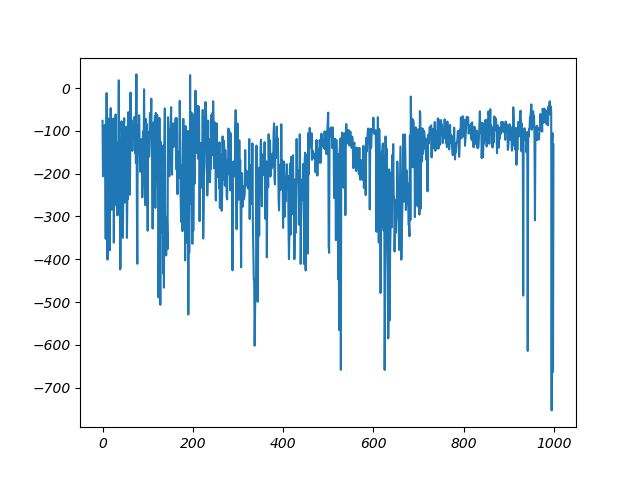
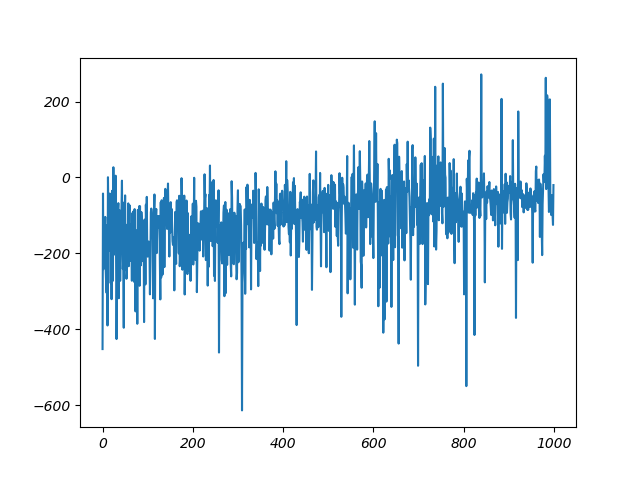
fixed heavyhandedness of optimize function

diff --git a/agents/dqn_agent.py b/agents/dqn_agent.py
@@ -13,7 +13,7 @@ class DQNAgent():
     # Hyperparameters (adjustable)
     learning_rate_a = 0.01  # learning rate (alpha)
     discount_factor_g = 0.95  # discount rate (gamma)
-    network_sync_rate = 5  # number of steps the agent takes before soft updating the target network
+    network_sync_rate = 10  # number of steps the agent takes before soft updating the target network
     mini_batch_size = 64  # size of the training data set sampled from the replay memory
     tau = 0.001 # soft update amount
 
@@ -85,15 +85,15 @@ class DQNAgent():
                 step_count += 1
 
                 # Check if enough experience has been collected
-                if len(memory) > self.mini_batch_size:
+                if len(memory) > self.mini_batch_size and step_count > self.network_sync_rate:
                     mini_batch = memory.sample(self.mini_batch_size)
                     self.optimize(mini_batch, policy_dqn, target_dqn)
 
                     # soft update policy network to target network after a certain number of steps
-                    if step_count > self.network_sync_rate:
-                        for target_param, local_param in zip(target_dqn.parameters(), policy_dqn.parameters()):
-                            target_param.data.copy_(self.tau * local_param.data + (1.0 - self.tau) * target_param.data)
-                        step_count = 0
+                    for target_param, local_param in zip(target_dqn.parameters(), policy_dqn.parameters()):
+                        target_param.data.copy_(self.tau * local_param.data + (1.0 - self.tau) * target_param.data)
+
+                    step_count = 0
 
             # Keep track of the rewards collected per episode.
             # An episode is considered a solution if it scores at least 200 points.
@@ -146,35 +146,24 @@ class DQNAgent():
 
     def optimize(self, mini_batch, policy_dqn, target_dqn):
         # update the policy network
-        current_q_list = []
-        target_q_list = []
+        states = torch.tensor(np.array([s for s, _, _, _, _ in mini_batch]), dtype=torch.float32)
+        actions = torch.tensor(np.array([a for _, a, _, _, _ in mini_batch]), dtype=torch.int64)
+        rewards = torch.tensor(np.array([r for _, _, _, r, _ in mini_batch]), dtype=torch.float32)
+        next_states = torch.tensor(np.array([ns for _, _, ns, _, _ in mini_batch]), dtype=torch.float32)
+        dones = torch.tensor(np.array([done for _, _, _, _, done in mini_batch]), dtype=torch.float32)
 
-        for state, action, new_state, reward, terminated in mini_batch:
+        # Get current Q values for taken actions
+        q_values = policy_dqn(states)
+        current_q = q_values.gather(1, actions.unsqueeze(1)).squeeze()
 
-            if terminated:
-                # An episode is considered a solution if it scores at least 200 points.
-                # When in a terminated state, target q value should be set to the reward.
-                target = torch.FloatTensor([reward])
-            else:
-                # Calculate target q value
-                with torch.no_grad():
-                    target = torch.FloatTensor(
-                        reward + self.discount_factor_g * target_dqn(
-                            torch.tensor(new_state, dtype=torch.float32)).max()
-                    )
+        # Compute target Q values
+        with torch.no_grad():
+            max_next_q = target_dqn(next_states).max(1)[0]
+            # (1-dones) handles the terminal cases
+            target_q = rewards + (1 - dones) * self.discount_factor_g * max_next_q
 
-            # Get the current set of Q values
-            current_q = policy_dqn(torch.tensor(state, dtype=torch.float32))
-            current_q_list.append(current_q)
-
-            # Get the target set of Q values
-            target_q = target_dqn(torch.tensor(state, dtype=torch.float32))
-            # Adjust the specific action to the target that was just calculated
-            target_q[action] = target
-            target_q_list.append(target_q)
-
-        # Compute loss for the whole minibatch
-        loss = self.loss_fn(torch.stack(current_q_list), torch.stack(target_q_list))
+        # Loss
+        loss = self.loss_fn(current_q, target_q)
 
         # Optimize the model
         self.optimizer.zero_grad()
